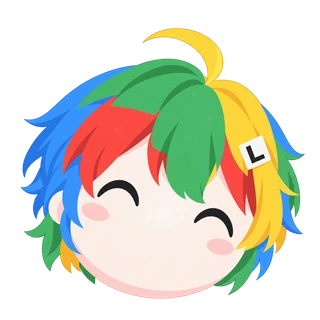
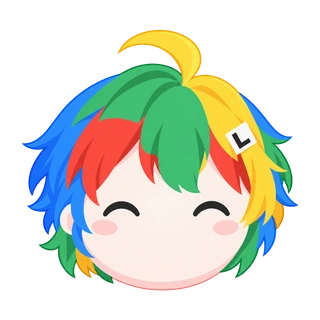
fix(assistant): straighten character and soften happy eyes

Changed region(s): [[0.0625, 0.0625, 0.9688, 0.9375]]

diff --git a/src/company-assistant.css b/src/company-assistant.css
@@ -87,13 +87,13 @@
 @keyframes assistant-character-delight {
   0%,
   100% {
-    transform: translateY(0) rotate(0);
+    transform: translateY(0);
   }
   30% {
-    transform: translateY(-3px) rotate(-2deg);
+    transform: translateY(-3px);
   }
   65% {
-    transform: translateY(1px) rotate(1deg);
+    transform: translateY(1px);
   }
 }
 @media (prefers-reduced-motion: no-preference) {
@@ -122,24 +122,24 @@
   64%,
   82%,
   100% {
-    transform: translateY(0) rotate(0) scale(1);
+    transform: translateY(0) scale(1);
   }
   6%,
   35% {
-    transform: translateY(-2px) rotate(-1deg) scale(1);
+    transform: translateY(-2px) scale(1);
   }
   20%,
   54% {
-    transform: translateY(-1px) rotate(1deg) scale(1);
+    transform: translateY(-1px) scale(1);
   }
   68% {
-    transform: translateY(1px) rotate(0) scale(1.03, 0.97);
+    transform: translateY(1px) scale(1.03, 0.97);
   }
   72% {
-    transform: translateY(-6px) rotate(2deg) scale(0.98, 1.02);
+    transform: translateY(-6px) scale(0.98, 1.02);
   }
   76% {
-    transform: translateY(1px) rotate(-1deg) scale(1.02, 0.98);
+    transform: translateY(1px) scale(1.02, 0.98);
   }
 }
 @keyframes assistant-character-resting {

diff --git a/AGENTS.md b/AGENTS.md
@@ -95,7 +95,7 @@ Broader public research uses `server/company-public-signals.ts`: at most six Eas
 
 Assistant input recommendations use the pure shared public-document index in `shared/product-knowledge.ts` and caller-supplied owning records in `shared/assistant-suggestions.ts`. Keep the server compatibility export. Typing searches only already-loaded local data, offers at most three actual matches and never sends a model/source request or writes a draft to storage. A document choice opens its exact chapter; a company choice retains the full typed question and adds its explicit company/year as editable text, without submission. No-match inputs must not be presented as matched default chapters. Pause recommendations during IME composition and preserve account isolation. `POST /api/assistant/messages` negotiates optional NDJSON via Accept while retaining its JSON contract. Emit only actual processing stages after parameter/session/CSRF/rate checks; cached answers and clarifications finish directly. Keep streaming errors sanitized, cancellation/deadline/concurrency/cache behavior intact, and client progress updates fenced by the same operation identity and owner as final answers. Do not add timed fake progress, completion percentages or unverified speed claims. The progress caption and supporting text use the shared 13px/12px roles and reduced-motion behavior.
 
-The assistant character artwork lives in `src/assets/assistant-character-*.webp` and is rendered by `src/AssistantCharacter.tsx`. The user-selected character is the first rainbow mouthless Grok Bot ball: preserve its blue, red, green and yellow hair, black eyes, pink cheeks, yellow crescent cowlick and white L clip on screen-right. Use `assistant-character-rainbow-*.webp` and preserve the first design’s silhouette and eye placement; retain the original white-haired artwork. For both characters, never add a mouth, nose, neck, clothing, body or limbs, and never mirror the character. Expressions use open or happy closed eyes. Render the character only once, in the shared assistant launcher; expanded chat cards have no character avatars. App retains the same CompanyAssistant instance with its owner-only key, preserving conversation and draft state across page changes. The trigger stays fixed while its closed-chat idle loop gently sways, blinks and bounces, pausing on hover, keyboard focus and page visibility changes. `CompanyAssistant` subscribes to `visibilitychange`; CSS handles motion without per-frame React updates. Its click animation opens the existing assistant immediately, respects reduced motion, and never submits a question. Preserve the native trigger, focus restoration, owner boundaries and actual request status. On viewports up to 440px, the same single launcher uses an opaque 64px bottom dock plus the safe-area inset; reserve matching page space and panel offsets so visible company controls are not obscured. Wider viewports use the floating lower-right launcher throughout the application.
+The assistant character artwork lives in `src/assets/assistant-character-*.webp` and is rendered by `src/AssistantCharacter.tsx`. The user-selected character is the first rainbow mouthless Grok Bot ball: preserve its blue, red, green and yellow hair, black eyes, pink cheeks, yellow crescent cowlick and white L clip on screen-right. Use `assistant-character-rainbow-*.webp` and retain the first design’s hair and face proportions, with an upright front-facing head and level eyes. Happy eyes use small symmetric rounded arches like the original white-haired character; avoid slanted corners or pointed squints. Retain the original white-haired artwork. For both characters, never add a mouth, nose, neck, clothing, body or limbs, and never mirror the character. Expressions use open or happy closed eyes. Render the character only once, in the shared assistant launcher; expanded chat cards have no character avatars. App retains the same CompanyAssistant instance with its owner-only key, preserving conversation and draft state across page changes. The trigger stays fixed while its closed-chat idle loop gently floats, blinks and bounces without rotation, pausing on hover, keyboard focus and page visibility changes. `CompanyAssistant` subscribes to `visibilitychange`; CSS handles motion without per-frame React updates. Its click animation opens the existing assistant immediately, respects reduced motion, and never submits a question. Preserve the native trigger, focus restoration, owner boundaries and actual request status. On viewports up to 440px, the same single launcher uses an opaque 64px bottom dock plus the safe-area inset; reserve matching page space and panel offsets so visible company controls are not obscured. Wider viewports use the floating lower-right launcher throughout the application.
 
 The shared finishing layer lives in `src/polish.css` and `src/Experience.tsx`. Command search (`src/CommandMenu.tsx`) filters account-local metadata; typing must not send model queries or expose a previous owner's records. Preserve keyboard focus, truthful loading/download states, paused success notices, dismissible persistent errors and system reduced-motion support. Avoid animated numeric counting on financial amounts.
 

diff --git a/README.md b/README.md
@@ -52,7 +52,7 @@ The [version-pinned competitive engineering record](docs/competitive-research/RE
 
 📰 **Source Reader** — Acquired news and public discussions retain local keyword, media and content-scope filters, date sorting and pagination, with the selected source text available on narrow screens. Titles, digests and retrieved excerpts remain distinct. Filtering saved sources makes no model or public-source request.
 
-🧭 **Research Entry and Questions** — The entry preserves the current owner's draft through navigation and confirms a matched issuer before starting saved research. Public company codes and short names match a preloaded directory; misses use bounded live search. Enter starts matching immediately, and ambiguous results retain a selection step. The shared lower-right assistant launcher uses the user-referenced mouthless Grok Bot ball, with blue, red, green and yellow hair, black eyes, pink cheeks, a yellow crescent cowlick and a white L clip on its right. The original white-haired artwork is retained. Its fixed-position companion gently sways, blinks and bounces while chat is closed. Idle motion pauses on hover or keyboard focus and while the page is hidden. Clicking opens chat immediately with happy closed eyes and a gentle bounce; reduced motion keeps it still. Expanded chat cards contain no character avatars. On narrow screens up to 440px, the same launcher uses a bottom dock with reserved page space. Page navigation preserves the same conversation and draft. As you type, local matching offers up to three relevant document chapters or already-loaded owning-company records. Chapter links open the actual documentation; company choices add the named company and year to an editable draft without sending it. Submitted questions show small progress captions from actual request recognition, retrieval, public-source checks, answer preparation and saving, as applicable; cached or short answers finish immediately. It has one conversation for researched companies, product help and policy details. It resolves company context automatically, follows up with bounded public retrieval when needed, and cites actual company sources or canonical product documents. The assistant requires sign-in; company questions use only the current account’s public research and may call the configured model. Failed calls retain truthful rule answers or document excerpts.
+🧭 **Research Entry and Questions** — The entry preserves the current owner's draft through navigation and confirms a matched issuer before starting saved research. Public company codes and short names match a preloaded directory; misses use bounded live search. Enter starts matching immediately, and ambiguous results retain a selection step. The shared lower-right assistant launcher uses the user-referenced mouthless Grok Bot ball, with blue, red, green and yellow hair, black eyes, pink cheeks, a yellow crescent cowlick and a white L clip on its right. The original white-haired artwork is retained. Its fixed-position companion faces upright with level eyes, gently floating, blinking and bouncing without rotation while chat is closed. Idle motion pauses on hover or keyboard focus and while the page is hidden. Clicking opens chat immediately with small symmetric rounded happy eyes, based on the original white-haired character, and a gentle bounce; reduced motion keeps it still. Expanded chat cards contain no character avatars. On narrow screens up to 440px, the same launcher uses a bottom dock with reserved page space. Page navigation preserves the same conversation and draft. As you type, local matching offers up to three relevant document chapters or already-loaded owning-company records. Chapter links open the actual documentation; company choices add the named company and year to an editable draft without sending it. Submitted questions show small progress captions from actual request recognition, retrieval, public-source checks, answer preparation and saving, as applicable; cached or short answers finish immediately. It has one conversation for researched companies, product help and policy details. It resolves company context automatically, follows up with bounded public retrieval when needed, and cites actual company sources or canonical product documents. The assistant requires sign-in; company questions use only the current account’s public research and may call the configured model. Failed calls retain truthful rule answers or document excerpts.
 
 🗂 **Original-Report Compatibility** — Requested original review retains the LangGraph workflow for official A-share annual reports, relevant notes and selected announcement originals. Rules extract amounts and preserve missing fields and conflicts; reviewed candidates become personal materials only after adoption. Default financial acquisition does not start this workflow or download PDFs; subsequent public AI research may use its separate bounded official-excerpt tool. See the [real-company algorithm regression record](docs/algorithm-verification-2026-10-02.md).
 

diff --git a/README.zh-Hans.md b/README.zh-Hans.md
@@ -52,7 +52,7 @@
 
 📰 **来源阅读** — 已取得的新闻和公开讨论保留本地关键词、媒体、内容范围筛选、日期排序和分页；窄屏仍可读取所选来源。标题、摘要与实际取得的正文节选分别标明。筛选已保存资料不调用模型或公开来源。
 
-🧭 **研究入口与问答** — 入口保留当前账号的输入草稿，确认匹配主体后创建研究。公开公司代码与简称通过预载目录快速匹配，未命中时有限远程补查；回车立即匹配，多个候选保留选择。全站共用的右下角助手入口使用用户参考图中的无嘴 Grok Bot 球，保留蓝、红、绿、黄四色头发、黑色眼睛、粉色脸颊、黄色月牙呆毛与右侧白色 L 发卡；原白发角色素材保留。入口固定在右下角，闲置时轻轻晃动、眨眼和弹跳；鼠标靠近、键盘聚焦或页面进入后台时暂停。点击时开心地闭起眼睛、轻轻弹动，立即打开聊天；减少动态效果时保持静止。展开卡片不放卡通头像；440px 及以下窄屏使用同一个底部入口，并预留页面空间。切换页面 保留同一段对话与草稿。输入时本地匹配最多三项相关文档章节或当前已载入的企业记录；文档选项打开实际说明，企业选项只把公司与年度补入可编辑草稿。发送后以小字显示实际识别、检索、公开来源核对、回答整理与保存阶段；快速回答和缓存命中直接完成。它通过同一段对话回答已研究企业、产品使用和政策细节，自动接续企业上下文，按需补查公开资料，并引用实际企业来源或正式产品文档。助手仅在登录后开放；企业问题使用当前账号的公开研究，按需调用模型。回答使用已配置模型，失败时保留真实规则回答或文档原文。
+🧭 **研究入口与问答** — 入口保留当前账号的输入草稿，确认匹配主体后创建研究。公开公司代码与简称通过预载目录快速匹配，未命中时有限远程补查；回车立即匹配，多个候选保留选择。全站共用的右下角助手入口使用用户参考图中的无嘴 Grok Bot 球，保留蓝、红、绿、黄四色头发、黑色眼睛、粉色脸颊、黄色月牙呆毛与右侧白色 L 发卡；原白发角色素材保留。入口固定在右下角，角色正面摆正、双眼平齐，闲置时上下轻轻浮动、眨眼和弹跳，头部不旋转；鼠标靠近、键盘聚焦或页面进入后台时暂停。点击时使用原白发角色那样圆润、对称的小弧线开心眼睛，轻轻弹动并立即打开聊天；减少动态效果时保持静止。展开卡片不放卡通头像；440px 及以下窄屏使用同一个底部入口，并预留页面空间。切换页面 保留同一段对话与草稿。输入时本地匹配最多三项相关文档章节或当前已载入的企业记录；文档选项打开实际说明，企业选项只把公司与年度补入可编辑草稿。发送后以小字显示实际识别、检索、公开来源核对、回答整理与保存阶段；快速回答和缓存命中直接完成。它通过同一段对话回答已研究企业、产品使用和政策细节，自动接续企业上下文，按需补查公开资料，并引用实际企业来源或正式产品文档。助手仅在登录后开放；企业问题使用当前账号的公开研究，按需调用模型。回答使用已配置模型，失败时保留真实规则回答或文档原文。
 
 🗂 **原件核查兼容** — 明确进入原件核查时，仍可使用 LangGraph 核对官方 A 股年报、附注与选定公告原件。规则提取金额，保留缺失与冲突；候选经确认采用后才成为个人材料。默认财务取数不启动这一流程或下载 PDF；后续公开 AI 研究可使用独立的有限官方摘录工具。参见[真实公司算法回归记录](docs/algorithm-verification-2026-10-02.md)。
 

diff --git a/docs/sources.md b/docs/sources.md
@@ -44,7 +44,7 @@
 
 公司／团队名为析光，产品名为析光 / Prispect。产品采用原创几何标识，不声称名称、视觉元素或会计方法全球首创，也未进行商标可用性审查。图表由实际任务数值绘制；没有装饰性假数据或虚构客户标识。
 
-右下角助手以用户提供的新参考图和无嘴 Grok Bot 球设定为形象来源，选用用户指定的第一版四色造型，保留蓝、红、绿、黄四色头发、黑色眼睛、粉色脸颊、黄色月牙呆毛和右侧白色 L 发卡。Image Gen 将裁切的参考头部补全为透明圆球，并以同一图编辑开心闭眼状态；两张图不添加嘴巴、鼻子、身体或四肢，使用相同画布缩放并压缩为透明 WebP。新素材为 `src/assets/assistant-character-rainbow-{idle,happy}.webp`，原白发素材继续保留。参考角色的原作者权利保留，项目许可不改授该角色的第三方权利。全站共用同一个角色入口，展开卡片不重复显示；窄屏沿用预留页面空间的底部入口。角色只提供闲置动作、点击反馈和聊天入口，不表示资料查阅或回答已经成功。
+右下角助手以用户提供的新参考图和无嘴 Grok Bot 球设定为形象来源，选用用户指定的第一版四色造型，保留蓝、红、绿、黄四色头发、黑色眼睛、粉色脸颊、黄色月牙呆毛和右侧白色 L 发卡。Image Gen 将裁切的参考头部补全为透明圆球；按用户的方向与表情反馈，将第一版头部摆正、双眼对齐，再以原白发角色的开心眼睛为参考，仅编辑为圆润、对称的小弧线闭眼状态；两张图不添加嘴巴、鼻子、身体或四肢，使用相同画布缩放并压缩为透明 WebP。新素材为 `src/assets/assistant-character-rainbow-{idle,happy}.webp`，原白发素材继续保留。参考角色的原作者权利保留，项目许可不改授该角色的第三方权利。全站共用同一个角色入口，展开卡片不重复显示；窄屏沿用预留页面空间的底部入口。角色只提供闲置动作、点击反馈和聊天入口，不表示资料查阅或回答已经成功。
 
 界面截图必须来自可运行产品，演示视频是实际操作录制或其剪辑，不以回放标称实时模型执行。原文财报图像如用于核验仅本机保存；路演展示以事实数值与必要短摘录及原件链接为主。
 
